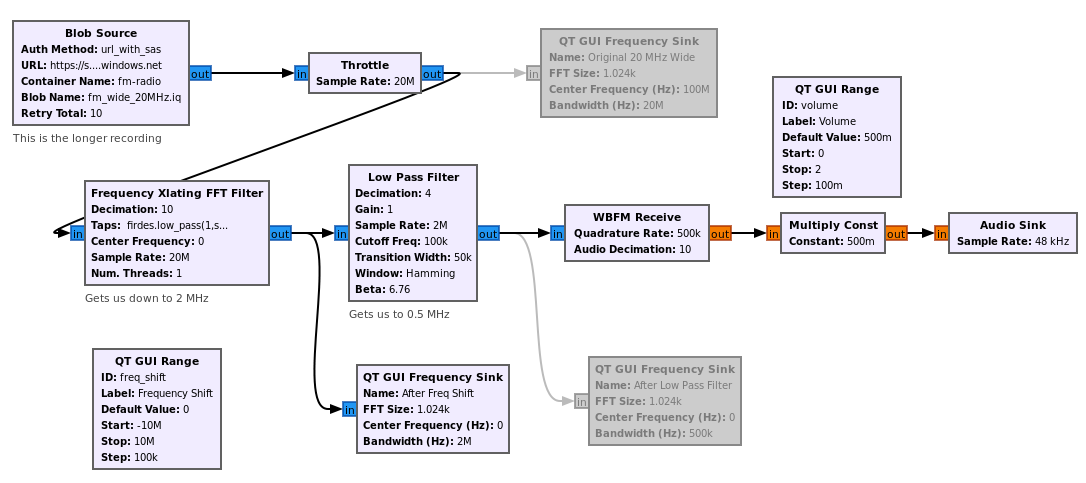
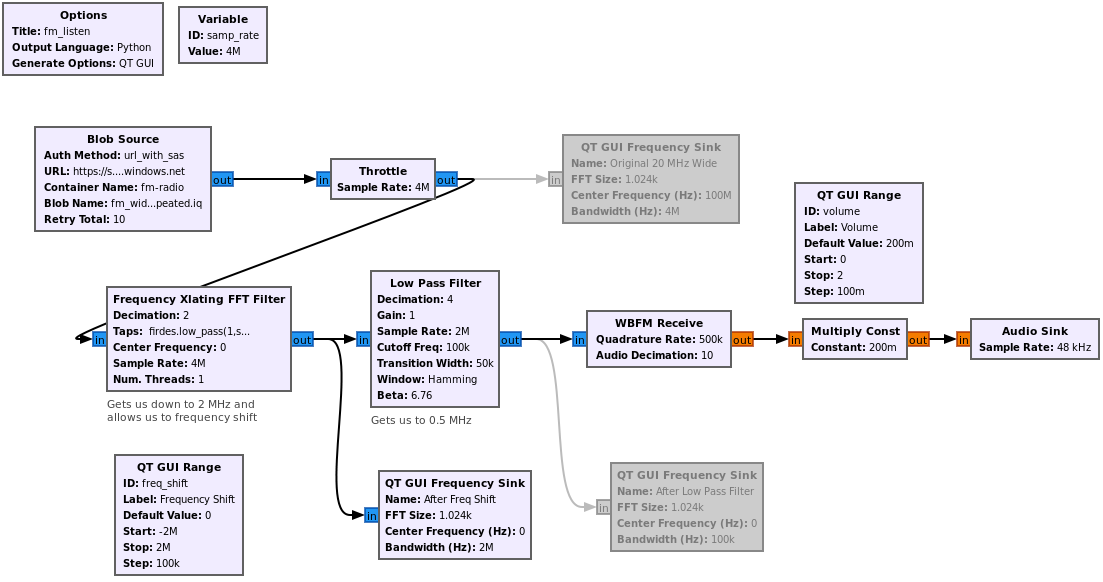
Fixed audio choppyness and updated flowgraph and screenshots

Changed region(s): [[0.0, 0.0, 1.0, 0.9938]]

diff --git a/docs/stage1/hello_world_stage1.md b/docs/stage1/hello_world_stage1.md
@@ -208,11 +208,9 @@ Now let's actually demodulate and listen to the FM radio signals, note that for 
 
 <center><img src="images/listen_flowgraph.png" width="700"/></center>
 
-For now ignore the greyed out boxes, and the QT GUI boxes.  What is left represents the signal processing needed to actually extract the audio signal from the FM signal, which we call demodulation.  Because we started with a 20 MHz wide RF recording that contained many FM signals, we first have to "zoom in" to the signal we want to demodulate, which is what the Frequency Translating Filter does, it performs a frequency shift and decimation.  Next we low pass filter to get rid of as much noise and adjacent signals as possible.  The output is then fed through the wideband FM receive block, which performs the actual demodulation, it converts the variations in frequency to variations in amplitude.  The output is our audio signal, we pass it through a Multiply Constant block which acts as our volume knob, and lastly feed it into the Audio Sink block which attempts to play it through the computer's sound.
+For now ignore the greyed out boxes, and the QT GUI boxes.  What is left represents the signal processing needed to actually extract the audio signal from the FM signal, which we call demodulation.  Because we started with a wide RF recording that contained many FM signals, we first have to "zoom in" to the signal we want to demodulate, which is what the Frequency Translating Filter does, it performs a frequency shift and decimation.  Next we low pass filter to get rid of as much noise and adjacent signals as possible.  The output is then fed through the wideband FM receive block, which performs the actual demodulation, it converts the variations in frequency to variations in amplitude.  The output is our audio signal, we pass it through a Multiply Constant block which acts as our volume knob, and lastly feed it into the Audio Sink block which attempts to play it through the computer's sound.
 
-When you run the flowgraph you will notice two adjustable bars: one for the volume knob and another to tune the radio.  It is set to perform the frequency shift in increments of 100 kHz, and if you recall, our original signal was centered at 100 MHz.  This will let us tune exactly to the frequencies of these FM radio stations, such as 101.1 MHz and 99.5 MHz.  Try hitting the up arrow, or sliding the bar, next to the one labeled Frequency Shift.  As you sweep across frequency you should hear FM radio stations coming in and out, there might be a slight delay due to the signal processing and audio passthrough.  You will notice that as the hump-shaped signals reach the center of the frequency plot (at 0 MHz), they become clear.  This is because the signals must be brought to baseband, i.e., centered at 0 Hz, to be properly demodulated.
-
----NOTE THAT ON THE DEVELOPER VM I"M GETTING A LOT OF CHOPPYNESS, IT"S PLAYING AUDIO AT A DUTY CYCLE AROUND 50%, NOT A VERY GOOD EXPERIENCE!
+When you run the flowgraph you will notice two adjustable bars: one for the volume knob and another to tune the radio.  It is set to perform the frequency shift in increments of 100 kHz, and if you recall, our original signal was centered at 100 MHz.  This will let us tune exactly to the frequencies of these FM radio stations, such as 101.1 MHz and 99.5 MHz.  Try hitting the up arrow a few times, or sliding the bar, next to the one labeled Frequency Shift.  As you sweep across frequency you should hear FM radio stations coming in and out, there might be a slight delay due to the signal processing and audio passthrough.  You will notice that as the hump-shaped signals reach the center of the frequency plot (at 0 MHz), they become clear.  This is because the signals must be brought to baseband, i.e., centered at 0 Hz, to be properly demodulated.  The FM recording has a limited length so you can run the flowgraph again if the music stops.
 
 <center><img src="images/listen_gui.png" width="700"/></center>
 
